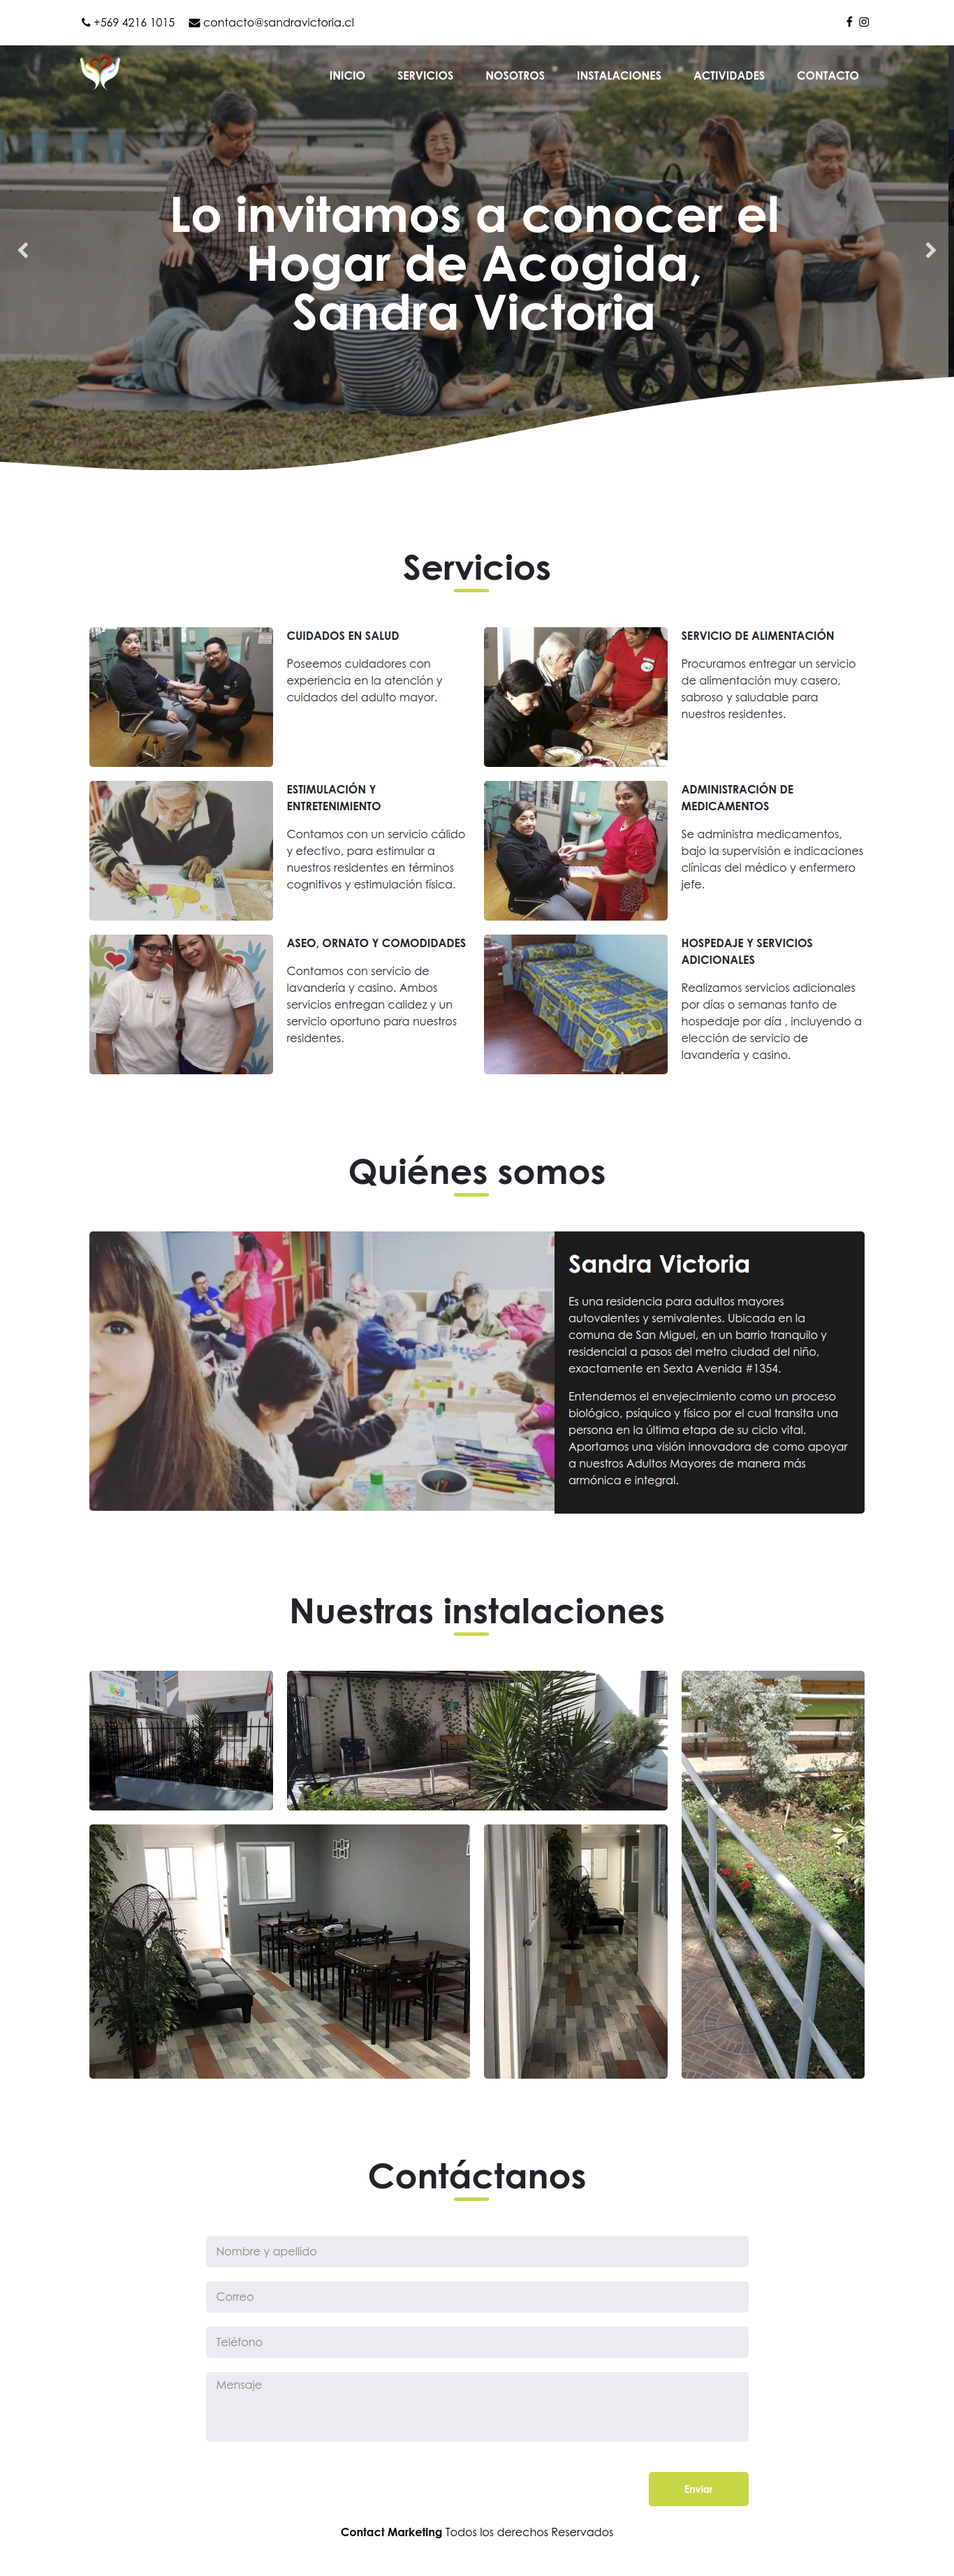
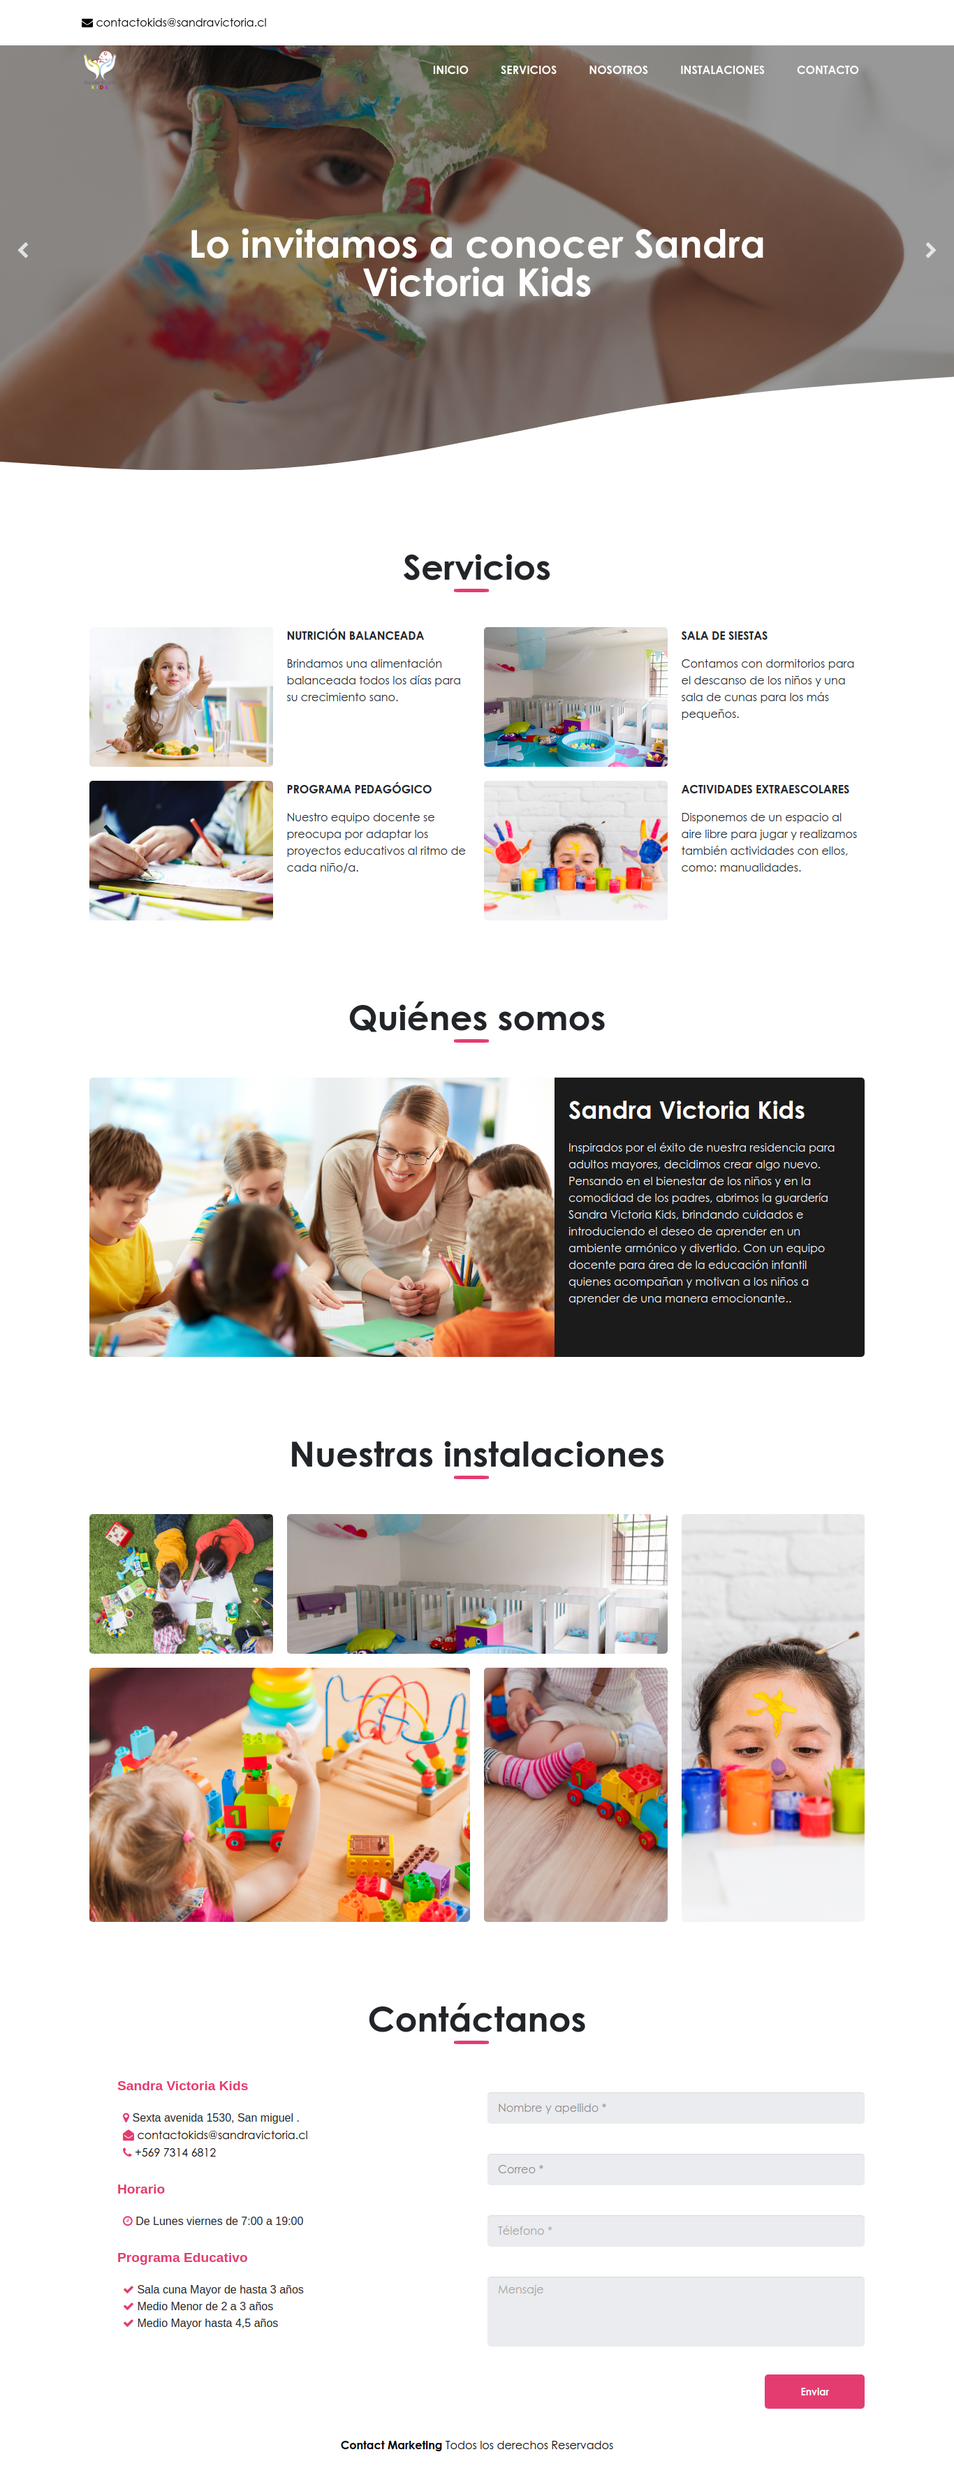
Add services text about

diff --git a/wp-content/themes/SandraKids-w/home.php b/wp-content/themes/SandraKids-w/home.php
@@ -13,7 +13,7 @@
           </div>
         </div>
         <div class="main-banner__img">
-          <img src="<?php echo get_template_directory_uri(); ?>/assets/img/6.jpg">
+          <img src="<?php echo get_template_directory_uri(); ?>/assets/img/4.jpg">
         </div>
       </div>
       <div class="main-banner__item">
@@ -27,7 +27,7 @@
           </div>
         </div>
         <div class="main-banner__img">
-          <img src="<?php echo get_template_directory_uri(); ?>/assets/img/4.jpg">
+          <img src="<?php echo get_template_directory_uri(); ?>/assets/img/1.jpg">
         </div>
       </div>
     </div>
@@ -44,14 +44,14 @@
         <div class="main-services__item">
           <div class="main-services__boxcontent">
             <div class="main-services__img">
-              <img class="img-round" src="https://sandravictoria.cl/wp-content/uploads/2019/08/g04.jpg">
+              <img class="img-round" src="<?php echo get_template_directory_uri(); ?>/assets/img/11.jpg">
             </div>
             <div class="main-services__boxtext">
               <div class="main-services__title">
-                <p>CUIDADOS EN SALUD</p>
+                <p>NUTRICIÓN BALANCEADA</p>
               </div>
               <div class="main-services__description">
-                <p>Poseemos cuidadores con experiencia en la atención y cuidados del adulto mayor.</p>
+                <p>Brindamos una alimentación balanceada todos los días para su crecimiento sano.</p>
               </div>
             </div>
           </div>
@@ -59,14 +59,14 @@
         <div class="main-services__item">
           <div class="main-services__boxcontent">
             <div class="main-services__img">
-              <img class="img-round" src="https://sandravictoria.cl/wp-content/uploads/2019/08/g15.jpg">
+              <img class="img-round" src="<?php echo get_template_directory_uri(); ?>/assets/img/7.jpg">
             </div>
             <div class="main-services__boxtext">
               <div class="main-services__title">
-                <p>SERVICIO DE ALIMENTACIÓN</p>
+                <p>SALA DE SIESTAS</p>
               </div>
               <div class="main-services__description">
-                <p>Procuramos entregar un servicio de alimentación muy casero, sabroso y saludable para nuestros residentes.</p>
+                <p>Contamos con dormitorios para el descanso de los niños y una sala de cunas para los más pequeños.</p>
               </div>
             </div>
           </div>
@@ -74,14 +74,14 @@
         <div class="main-services__item">
           <div class="main-services__boxcontent">
             <div class="main-services__img">
-              <img class="img-round" src="https://sandravictoria.cl/wp-content/uploads/2019/08/03-2-320x320.jpg">
+              <img class="img-round" src="<?php echo get_template_directory_uri(); ?>/assets/img/8.jpg">
             </div>
             <div class="main-services__boxtext">
               <div class="main-services__title">
-                <p>ESTIMULACIÓN Y ENTRETENIMIENTO</p>
+                <p>PROGRAMA PEDAGÓGICO</p>
               </div>
               <div class="main-services__description">
-                <p>Contamos con un servicio cálido y efectivo, para estimular a nuestros residentes en términos cognitivos y estimulación física.</p>
+                <p>Nuestro equipo docente se preocupa por adaptar los proyectos educativos al ritmo de cada niño/a.</p>
               </div>
             </div>
           </div>
@@ -89,19 +89,19 @@
         <div class="main-services__item">
           <div class="main-services__boxcontent">
             <div class="main-services__img">
-              <img class="img-round" src="https://sandravictoria.cl/wp-content/uploads/2019/08/sa-320x320.jpg">
+              <img class="img-round" src="<?php echo get_template_directory_uri(); ?>/assets/img/5.jpg">
             </div>
             <div class="main-services__boxtext">
               <div class="main-services__title">
-                <p>ADMINISTRACIÓN DE MEDICAMENTOS</p>
+                <p>ACTIVIDADES EXTRAESCOLARES</p>
               </div>
               <div class="main-services__description">
-                <p>Se administra medicamentos, bajo la supervisión e indicaciones clínicas del médico y enfermero jefe.</p>
+                <p>Disponemos de un espacio al aire libre para jugar y realizamos también actividades con ellos, como: manualidades.</p>
               </div>
             </div>
           </div>
         </div>
-        <div class="main-services__item">
+        <!-- <div class="main-services__item">
           <div class="main-services__boxcontent">
             <div class="main-services__img">
               <img class="img-round" src="https://sandravictoria.cl/wp-content/uploads/2019/08/05-1-320x320.jpg">
@@ -130,7 +130,7 @@
               </div>
             </div>
           </div>
-        </div>
+        </div> -->
       </div>
     </div>
   </section>
@@ -153,9 +153,7 @@
               <p>Sandra Victoria Kids</p>
             </div>
             <div class="main-about__description">
-              <p>Es una residencia para adultos mayores autovalentes y semivalentes. Ubicada en la comuna de San Miguel, en un barrio tranquilo y residencial a pasos del metro ciudad del niño, exactamente en Sexta Avenida #1354.</p>
-              <p>Entendemos el envejecimiento como un proceso biológico, psíquico y físico por el cual transita una persona en la última etapa de su ciclo vital. Aportamos una visión innovadora de como apoyar a nuestros Adultos Mayores de manera más armónica
-                e integral.</p>
+              <p>Inspirados por el éxito de nuestra residencia para adultos mayores, decidimos crear algo nuevo. Pensando en el bienestar de los niños y en la comodidad de los padres, abrimos la guardería Sandra Victoria Kids, brindando cuidados e introduciendo el deseo de aprender en un ambiente armónico y divertido. Con un equipo docente para área de la educación infantil quienes acompañan y motivan a los niños a aprender de una manera emocionante..</p>
             </div>
           </div>
         </div>
@@ -172,27 +170,27 @@
       <div class="main-gallery__content">
         <div class="main-gallery__item">
           <div class="main-gallery__img">
-            <img class="img-round" src="https://sandravictoria.cl/wp-content/uploads/2019/08/01.jpg">
+            <img class="img-round" src="<?php echo get_template_directory_uri(); ?>/assets/img/3.jpg">
           </div>
         </div>
         <div class="main-gallery__item">
           <div class="main-gallery__img">
-            <img class="img-round" src="https://sandravictoria.cl/wp-content/uploads/2019/08/02.jpg">
+            <img class="img-round" src="<?php echo get_template_directory_uri(); ?>/assets/img/7.jpg">
           </div>
         </div>
         <div class="main-gallery__item">
           <div class="main-gallery__img">
-            <img class="img-round" src="https://sandravictoria.cl/wp-content/uploads/2019/08/03-1.jpg">
+            <img class="img-round" src="<?php echo get_template_directory_uri(); ?>/assets/img/5.jpg">
           </div>
         </div>
         <div class="main-gallery__item">
           <div class="main-gallery__img">
-            <img class="img-round" src="https://sandravictoria.cl/wp-content/uploads/2019/08/08.jpg">
+            <img class="img-round" src="<?php echo get_template_directory_uri(); ?>/assets/img/6.jpg">
           </div>
         </div>
         <div class="main-gallery__item">
           <div class="main-gallery__img">
-            <img class="img-round" src="https://sandravictoria.cl/wp-content/uploads/2019/08/09.jpg">
+            <img class="img-round" src="<?php echo get_template_directory_uri(); ?>/assets/img/10.jpg">
           </div>
         </div>
       </div>
